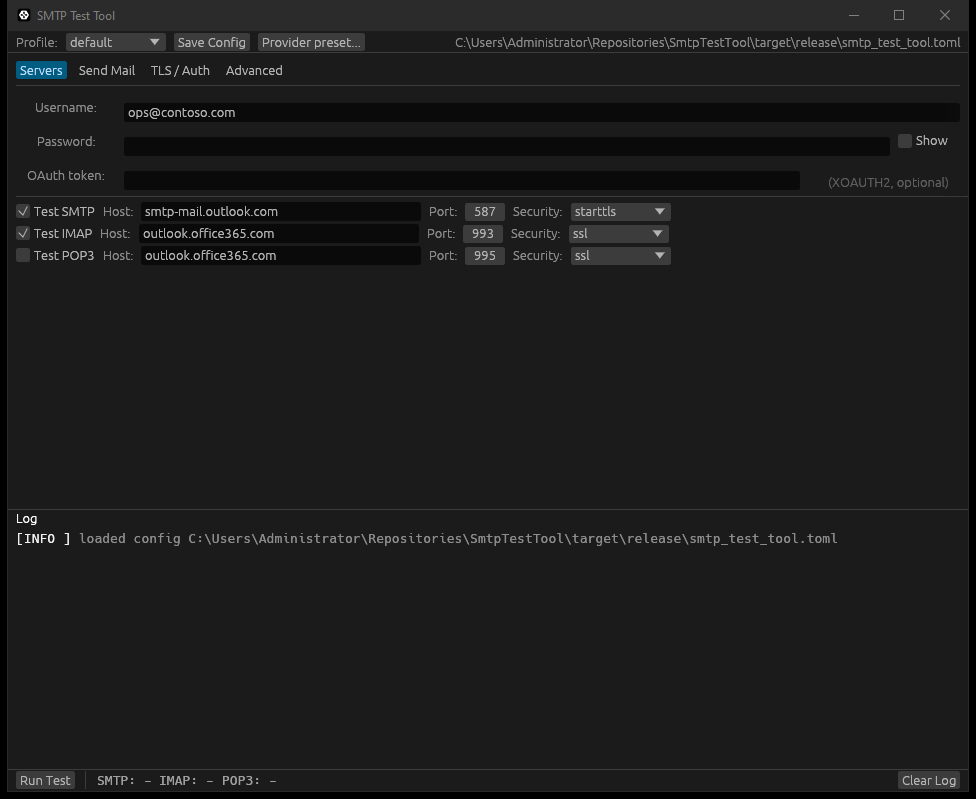
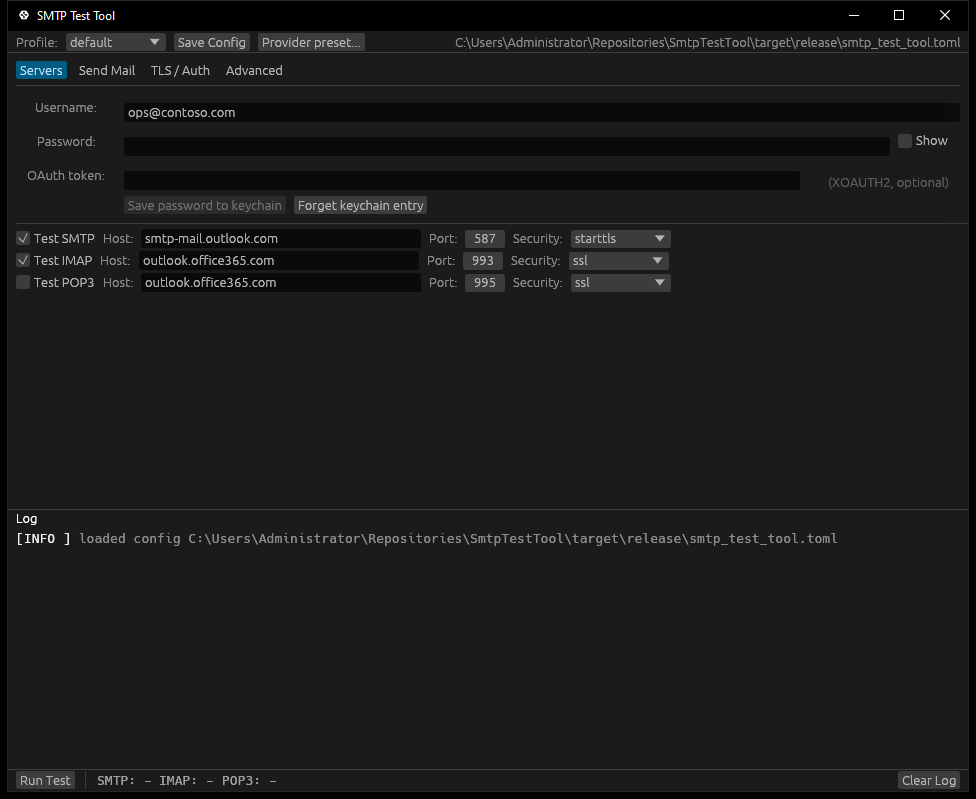
feat(gui): OS keychain Save/Forget buttons + auto-load on startup
Completes the keychain integration started in the previous two
commits.  GUI users now have a complete remember-me workflow without
ever leaking secrets through our config files.

Behaviour:

  Startup       App::new tries keystore.load(profile.user) once.
                On hit, populates profile.password and sets
                password_from_keychain = true.  On miss, silent.
                On backend failure (no Secret Service on Linux),
                logs a warn and continues without a password.

  Save button   Enabled only when both 'user' and 'password' have
                non-empty values.  Calls keystore.save(user, pwd);
                logs info on success, error on failure.  Tooltip
                spells out where the secret will live and the rule
                that it is never written to the config file.

  Forget button Enabled when 'user' is set.  Calls keystore.forget
                (idempotent: succeeds even on a missing entry).  On
                success ALSO clears the in-memory password to match
                what the user just signalled - half-state surprise
                is a worse UX than the small extra retype.

  Hint label    Small weak '(loaded from keychain)' next to the
                buttons whenever the current password came from the
                keystore - either at startup or after a Save click.

Layout fits inside the credentials section under the OAuth token row;
[…]

Changed region(s): [[0.0, 0.2403, 0.707, 0.3905], [0.0, 0.0, 1.0, 0.0601]]

diff --git a/src/bin/gui.rs b/src/bin/gui.rs
@@ -9,6 +9,7 @@
 
 use eframe::egui;
 use smtp_test_tool::config::{default_save_path, discover_config_path, Config};
+use smtp_test_tool::keystore::{default_keystore, Keystore};
 use smtp_test_tool::providers::{self, Provider};
 use smtp_test_tool::runner::{TestOutcome, TestResults};
 use smtp_test_tool::theme::{detect as detect_appearance, Appearance, ThemeChoice};
@@ -129,6 +130,16 @@ struct App {
     log_buf: Vec<LogLine>,
     show_pwd: bool,
     busy: bool,
+    /// Native credential store handle.  Box<dyn> so unit tests of the
+    /// surrounding logic could swap in a mock; the trait is Send+Sync
+    /// so it's safe to share across the background test thread (we
+    /// don't currently, but the type promises it).
+    keystore: Box<dyn Keystore>,
+    /// Set to true when the current `profile.password` came out of the
+    /// OS keychain (auto-loaded on startup).  Surfaces a small textual
+    /// hint next to the credentials block so the user knows the
+    /// password they see was restored, not just typed.
+    password_from_keychain: bool,
     result_rx: Option<Receiver<TestResults>>,
     last_results: TestResults,
     to_csv: String,
@@ -177,10 +188,32 @@ impl App {
                     .collect(),
             });
         let profile_name = cfg.active.clone();
-        let profile = cfg
+        let mut profile = cfg
             .profile(&profile_name)
             .cloned()
             .unwrap_or_else(outlook_defaults);
+
+        // Best-effort keychain auto-load: if a user is known and an
+        // entry exists in the OS-native store, populate the password
+        // field.  Silent on a miss; logs a warning only on real backend
+        // failure (e.g. no Secret Service daemon on a headless Linux).
+        let keystore = default_keystore();
+        let mut password_from_keychain = false;
+        if profile.password.is_none() {
+            if let Some(user) = profile.user.as_deref() {
+                match keystore.load(user) {
+                    Ok(Some(pwd)) => {
+                        tracing::info!("loaded password for {user} from OS keychain");
+                        profile.password = Some(pwd);
+                        password_from_keychain = true;
+                    }
+                    Ok(None) => {}
+                    Err(e) => {
+                        tracing::warn!("keychain load failed for {user}: {e:#}");
+                    }
+                }
+            }
+        }
 
         // Detect OS appearance once (cached), then resolve through the
         // user's stored ThemeChoice (Auto / Dark / Light).
@@ -213,6 +246,8 @@ impl App {
             tab: Tab::Servers,
             os_appearance,
             applied_appearance: initial,
+            keystore,
+            password_from_keychain,
         }
     }
 
@@ -586,6 +621,72 @@ fn tab_servers(ui: &mut egui::Ui, a: &mut App) {
             egui::Label::new(egui::RichText::new("(XOAUTH2, optional)").weak()),
         );
     });
+
+    // OS keychain controls (Windows Credential Manager / macOS Keychain /
+    // Linux Secret Service).  Buttons are explicit (no auto-save) so the
+    // user always knows when a secret is being persisted.  Per AGENTS.md
+    // rule #8 this is the ONE approved store outside process memory.
+    ui.horizontal(|ui| {
+        ui.add_sized([LABEL_W, 0.0], egui::Label::new(""));
+        let user_set = a
+            .profile
+            .user
+            .as_deref()
+            .map(|s| !s.is_empty())
+            .unwrap_or(false);
+        let pwd_set = a
+            .profile
+            .password
+            .as_deref()
+            .map(|s| !s.is_empty())
+            .unwrap_or(false);
+
+        if ui
+            .add_enabled(
+                user_set && pwd_set,
+                egui::Button::new("Save password to keychain"),
+            )
+            .on_hover_text(
+                "Stores the password in your OS keychain (Windows Credential \
+                 Manager / macOS Keychain / Linux Secret Service).  Never \
+                 written to the config file.",
+            )
+            .clicked()
+        {
+            if let (Some(u), Some(p)) = (&a.profile.user, &a.profile.password) {
+                match a.keystore.save(u, p) {
+                    Ok(()) => {
+                        tracing::info!("saved password for {u} to OS keychain");
+                        a.password_from_keychain = true;
+                    }
+                    Err(e) => tracing::error!("keychain save failed for {u}: {e:#}"),
+                }
+            }
+        }
+        if ui
+            .add_enabled(user_set, egui::Button::new("Forget keychain entry"))
+            .on_hover_text(
+                "Deletes the smtp-test-tool entry for this user from the OS keychain. \
+                 The password field above is also cleared.",
+            )
+            .clicked()
+        {
+            if let Some(u) = &a.profile.user.clone() {
+                match a.keystore.forget(u) {
+                    Ok(()) => {
+                        tracing::info!("forgot keychain entry for {u}");
+                        a.profile.password = None;
+                        a.password_from_keychain = false;
+                    }
+                    Err(e) => tracing::error!("keychain forget failed for {u}: {e:#}"),
+                }
+            }
+        }
+        if a.password_from_keychain {
+            ui.label(egui::RichText::new("(loaded from keychain)").weak());
+        }
+    });
+
     ui.separator();
     proto_block(
         ui,

diff --git a/CHANGELOG.md b/CHANGELOG.md
@@ -7,6 +7,36 @@ and this project adheres to [Semantic Versioning](https://semver.org/spec/v2.0.0
 
 ## [Unreleased]
 
+### Added
+- **OS-native keychain integration** behind a new `keychain` cargo
+  feature (on by default).  Windows Credential Manager / macOS
+  Keychain / Linux Secret Service via `keyring 3.6`.
+  * `src/keystore.rs` exposes a `Keystore` trait with `save`, `load`,
+    `forget`; `OsKeystore` (real) and `NullKeystore` (graceful no-op
+    for builds without the feature).  6 unit tests use an in-memory
+    `MockKeystore` so the suite passes on every OS, including headless
+    Linux CI runners.
+  * CLI: `--keychain-load` looks up the password at startup;
+    `--keychain-save` writes it after a successful run only
+    (failed AUTH never leaks a wrong password); `keychain status
+    <user>` / `keychain forget <user>` subcommands inspect and manage
+    entries.
+  * GUI: *Save password to keychain* / *Forget keychain entry* buttons
+    under the credentials block.  Auto-loads on startup when an entry
+    exists for the current user, showing a small *(loaded from
+    keychain)* hint next to the controls.
+- **CLI provider parity** with the GUI: `--provider gmail` and
+  friends (case-insensitive, unique-substring resolver), plus a
+  `providers` subcommand that prints the full curated list.
+- **Gmail 'Send mail as' client-side bounce diagnostic**: a user who
+  pastes the bounce body (English or Dutch verbatim) into
+  `smtp_hints_for` now gets an actionable pointer to *Gmail Settings
+  > Accounts and Import > Send mail as > Edit info*.
+
+### Changed
+- `AGENTS.md` rule #8 expanded: OS keychain is now the documented
+  one-and-only approved persistent store for credentials.
+
 ## [0.1.1] - 2026-05-19
 
 ### Security

diff --git a/README.md b/README.md
@@ -145,11 +145,21 @@ ca_file = "/etc/ssl/corp-internal-ca.pem"
 ```
 
 **Passwords and OAuth tokens are never written to the config file.**
-The GUI keeps them in memory for the current session only; the CLI
-prompts on each run unless one is supplied via `--password` or
-`--password-file`. Future work: opt-in integration with the OS
-keychain (Windows Credential Manager, macOS Keychain, Linux Secret
-Service) for proper at-rest encryption.
+They live in memory for the current session, or - on opt-in - in the
+native **OS keychain**:
+
+* The GUI's Servers tab has a *Save password to keychain* / *Forget
+  keychain entry* button pair under the credentials block.
+* The CLI exposes `--keychain-load` (look up at startup) and
+  `--keychain-save` (write after a successful test), plus a
+  `keychain status|forget` subcommand.
+* Backed by Windows Credential Manager, macOS Keychain, or Linux
+  Secret Service via `gnome-keyring` / KWallet.  Real at-rest
+  encryption, gated by the OS unlock prompt - unlike base64.
+
+Say `cargo build --no-default-features --features gui` to ship a
+build without the keychain code (skips the `keyring` crate and, on
+Linux, the `libdbus-1-dev` runtime dependency).
 
 ---
 